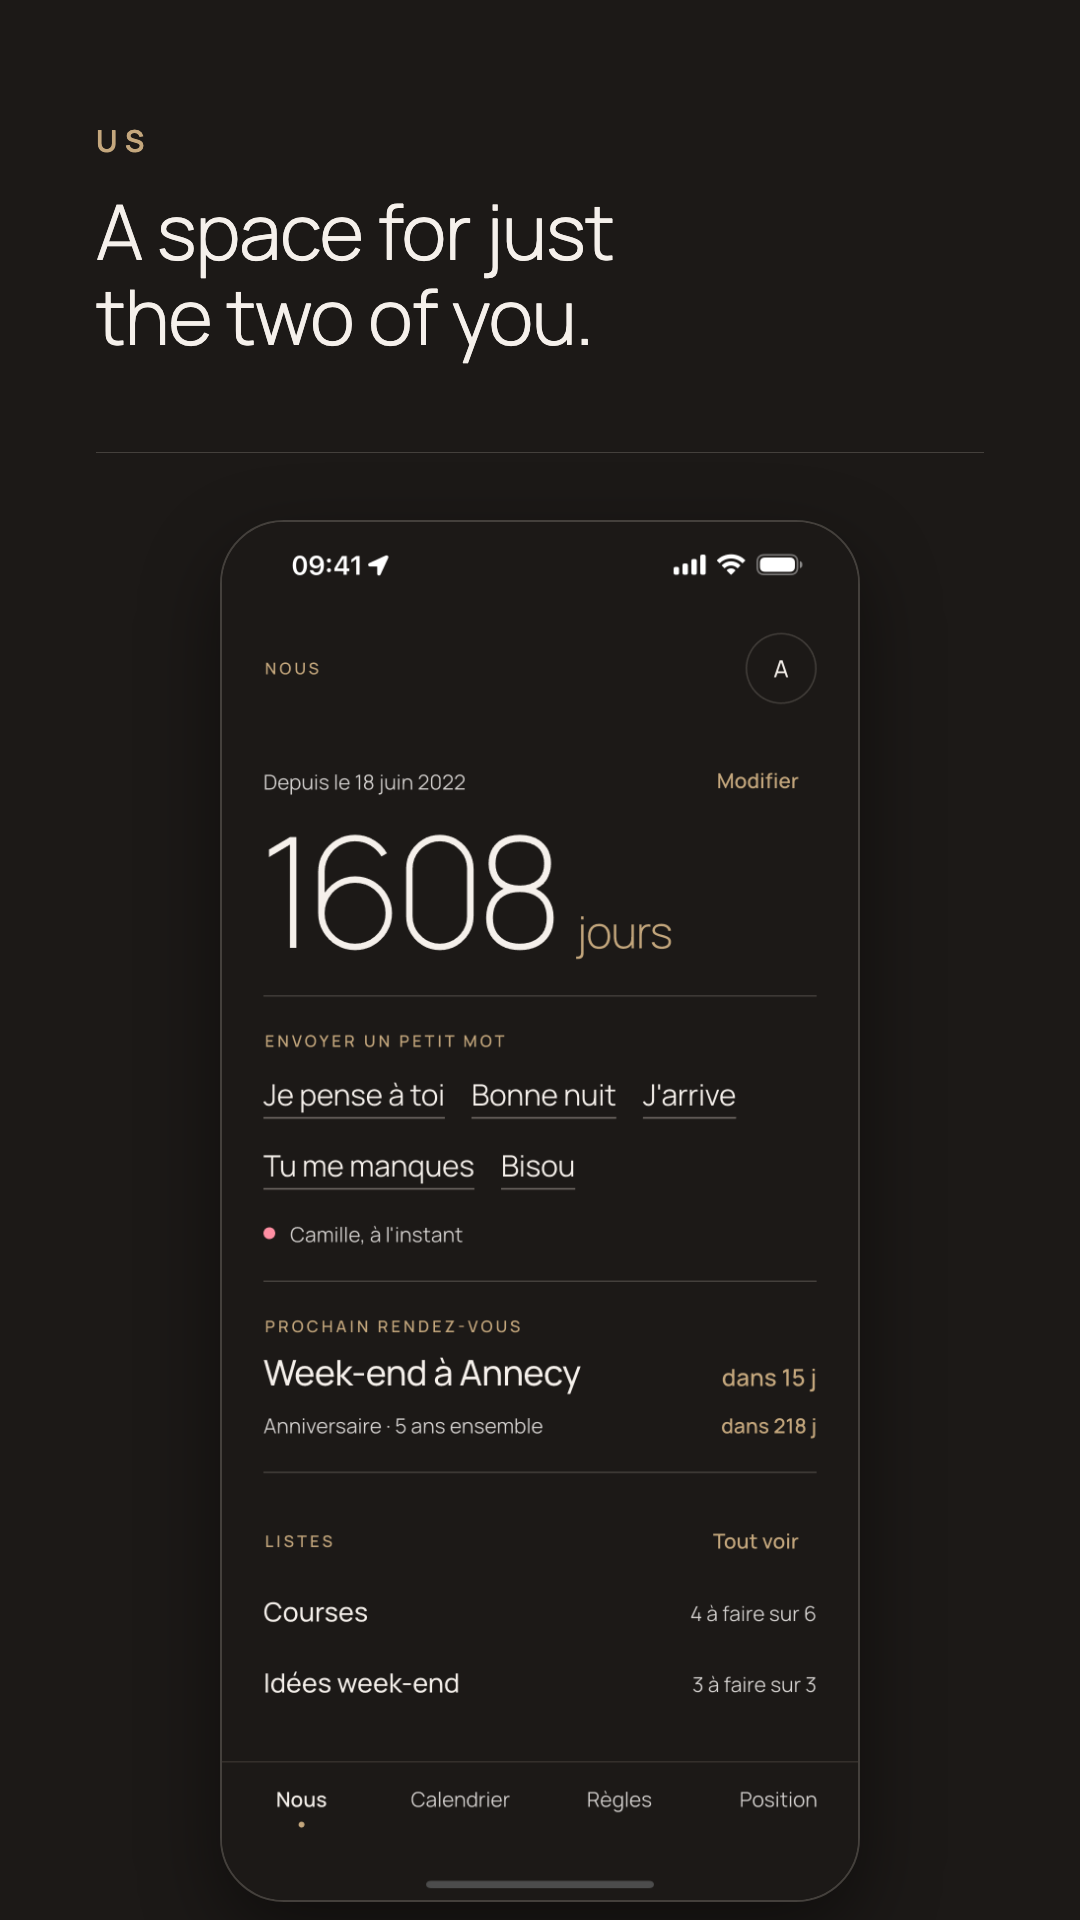
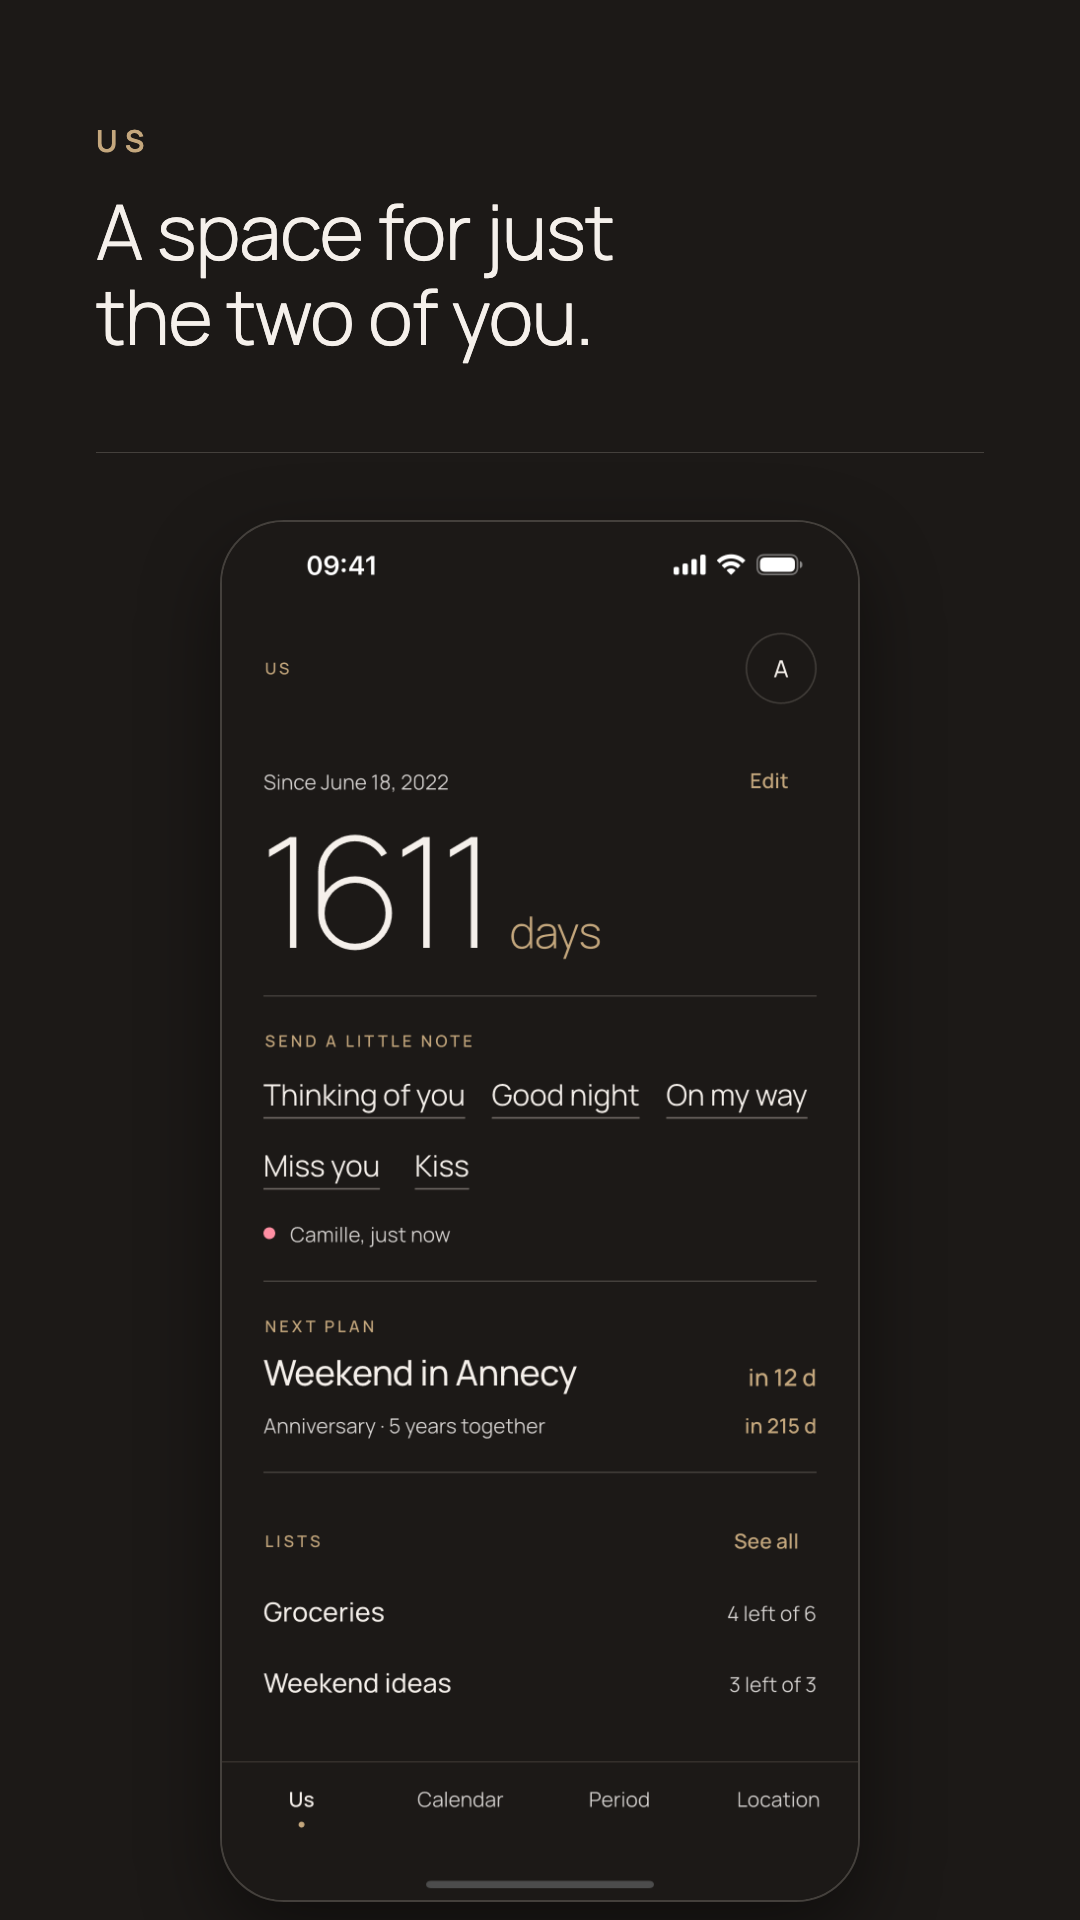
docs, store: written notes declared as messages; Play texts and English screenshots
- App Store App Privacy: little notes moved to « E-mails ou SMS »
  (Emails or Text Messages), published 2026-11-17; Play's Data safety
  already had them as Messages › Other in-app messages.
- Play listing, French and English: the description mentions your own
  words and the month swipe (same text as the App Store), sent for
  review with the screenshots below.
- app/store/play/render.py: the English screenshots now use the English
  captures (they showed the French app), and the little-notes caption
  says "or your own words".

diff --git a/app/store/play/render.py b/app/store/play/render.py
@@ -2,7 +2,8 @@
 """Renders the Google Play graphics from src/*.html with headless Chrome.
 
 Usage: python3 app/store/play/render.py  (outputs in app/store/play/out/)
-The screens reuse the site's app captures in website/public/screenshots/.
+The screens reuse the site's app captures in website/public/screenshots/
+(English ones in its en/ folder).
 """
 import pathlib, subprocess, urllib.parse
 
@@ -16,15 +17,15 @@ SCREENS = {
         ("01-nous", "nous", "Nous", "Votre espace à deux, et rien d'autre."),
         ("02-calendrier", "calendar", "Calendrier", "Un agenda pour deux, chacun sa couleur."),
         ("03-cycle", "cycle", "Règles", "Le cycle, partagé comme vous le choisissez."),
-        ("04-petits-mots", "ping", "Petits mots", f"«{NBSP}Je{NBSP}pense{NBSP}à{NBSP}toi{NBSP}», d'un geste."),
+        ("04-petits-mots", "ping", "Petits mots", f"«{NBSP}Je{NBSP}pense{NBSP}à{NBSP}toi{NBSP}», ou vos propres mots."),
         ("05-listes", "lists", "Listes", "Les courses, cochées des deux côtés."),
     ],
     "en": [
-        ("01-us", "nous", "Us", "A space for just the two of you."),
-        ("02-calendar", "calendar", "Calendar", "One calendar for two, a colour each."),
-        ("03-cycle", "cycle", "Period", "The cycle, shared the way you choose."),
-        ("04-notes", "ping", "Little notes", f"“Thinking{NBSP}of{NBSP}you”, in one tap."),
-        ("05-lists", "lists", "Lists", "Groceries, ticked off on both phones."),
+        ("01-us", "en/nous", "Us", "A space for just the two of you."),
+        ("02-calendar", "en/calendar", "Calendar", "One calendar for two, a colour each."),
+        ("03-cycle", "en/cycle", "Period", "The cycle, shared the way you choose."),
+        ("04-notes", "en/ping", "Little notes", f"“Thinking{NBSP}of{NBSP}you”, or your own words."),
+        ("05-lists", "en/lists", "Lists", "Groceries, ticked off on both phones."),
     ],
 }
 FEATURE = {

diff --git a/docs/PLAY_CONSOLE.md b/docs/PLAY_CONSOLE.md
@@ -95,10 +95,10 @@ Nothing is processed only temporarily (ephemeral) either; everything below is st
 | Personal info › Email address | Required | Account management | From Google or Apple sign-in |
 | Personal info › User IDs | Required | App functionality, Account management | Account id |
 | Personal info › Other info | Required | App functionality | Gender, chosen at onboarding |
-| Health and fitness › Health info | Optional | App functionality | Period dates, daily symptoms and mood, private cycle notes |
+| Health and fitness › Health info | Optional | App functionality | Period dates, daily symptoms (preset or written by the person) and mood, private cycle notes |
 | Location › Precise location | Optional | App functionality | Latest position only, no history; erased when sharing stops |
 | Photos and videos › Photos | Optional | App functionality | Profile photo |
-| Messages › Other in-app messages | Optional | App functionality | Little notes (latest one per person) |
+| Messages › Other in-app messages | Optional | App functionality | Little notes, latest one per person: a preset or, since build 26, a text the person writes (40 characters at most). The push never carries the text. |
 | Calendar › Calendar events | Optional | App functionality | Shared calendar events, including ones imported from the phone |
 | App activity › Other user-generated content | Optional | App functionality | Shared lists and items, the date the relationship started |
 | Device or other IDs | Optional | App functionality | Push notification token |
@@ -122,15 +122,15 @@ Nothing is processed only temporarily (ephemeral) either; everything below is st
 
 > Nous Deux réunit vos deux vies sur le même écran, et rien d'autre.
 >
-> Calendrier : un agenda pour deux, chaque événement garde la couleur de la personne qui l'a ajouté. Importez vos événements depuis le calendrier du téléphone et suivez le compte à rebours jusqu'au prochain rendez-vous.
+> Calendrier : un agenda pour deux, chaque événement garde la couleur de la personne qui l'a ajouté. Importez vos événements depuis le calendrier du téléphone, changez de mois d'un glissement et suivez le compte à rebours jusqu'au prochain rendez-vous.
 >
-> Cycle : la personne qui suit son cycle choisit ce que son partenaire voit. Dates, ressenti du jour et un guide pour chacun des deux, écrit à partir de sources de santé publique. Les notes restent privées.
+> Cycle : la personne qui suit son cycle choisit ce que son partenaire voit. Dates, ressenti du jour, avec vos propres mots si vous voulez, et un guide pour chacun des deux, écrit à partir de sources de santé publique. Les notes restent privées.
 >
 > Position : en direct, seulement quand vous l'activez. Aucun historique.
 >
 > Listes : courses, choses à faire, idées, cochées des deux côtés en direct.
 >
-> Petits mots : « Je pense à toi », « Bonne nuit », « J'arrive », envoyés d'un geste.
+> Petits mots : « Je pense à toi », « Bonne nuit », « J'arrive », ou vos propres mots, envoyés d'un geste.
 >
 > Vos jours : le compte de vos jours ensemble.
 >
@@ -140,21 +140,21 @@ Nothing is processed only temporarily (ephemeral) either; everything below is st
 
 > Nous Deux puts your two lives on one screen, and nothing else.
 >
-> Calendar: one calendar for two, where each event keeps the colour of whoever added it. Import events from your phone's calendar and count down to your next date.
+> Calendar: one calendar for two, where each event keeps the colour of whoever added it. Import events from your phone's calendar, swipe between months and count down to your next date.
 >
-> Cycle: whoever tracks their cycle chooses what their partner sees. Dates, how you feel each day, and a guide for each of you, written from public health sources. Notes stay private.
+> Cycle: whoever tracks their cycle chooses what their partner sees. Dates, how you feel each day, in your own words if you like, and a guide for each of you, written from public health sources. Notes stay private.
 >
 > Location: live, only when you turn it on. No history.
 >
 > Lists: groceries, to-dos, ideas, ticked off on both phones at once.
 >
-> Little notes: "Thinking of you", "Good night", "On my way", sent with one tap.
+> Little notes: "Thinking of you", "Good night", "On my way", or your own words, sent with one tap.
 >
 > Your days: how many days you've been together.
 >
 > No feed, no ads, no strangers. The app is free. Your data lives on our own servers in Germany and is never sold. You can delete your account from the app.
 
-The quoted note labels are the app's own, in both languages.
+The quoted note labels are the app's own, in both languages. The App Store description is the same text (see [APP_STORE_CONNECT.md](APP_STORE_CONNECT.md)).
 
 ### Graphics
 Everything is in `app/store/play/out/`, rendered by `python3 app/store/play/render.py` (headless Chrome) from the HTML in `app/store/play/src/` and the app captures in `website/public/screenshots/`.
@@ -163,7 +163,7 @@ Everything is in `app/store/play/out/`, rendered by `python3 app/store/play/rend
 | --- | --- | --- |
 | App icon, 512×512 | `icon-512.png` | inherited from French |
 | Feature graphic, 1024×500 | `fr/feature.png` | `en/feature.png` |
-| Phone screenshots, 1080×1920, in this order | `fr/01-nous` … `fr/05-listes` | `en/01-us` … `en/05-lists` |
+| Phone screenshots, 1080×1920, in this order | `fr/01-nous` … `fr/05-listes` | `en/01-us` … `en/05-lists` (English captures since 2026-11-17; before, they showed the French app) |
 
 - **Order:** uploading several screenshots at once lands them in a random order. Upload them one at a time, or reorder them in the asset panel.
 - **AI content declaration:** "Don't label". The graphics are app captures laid out in HTML and CSS, with no generated images.

diff --git a/docs/APP_STORE_CONNECT.md b/docs/APP_STORE_CONNECT.md
@@ -181,13 +181,14 @@ Same facts as Play's Data safety table, in Apple's terms. Apple counts crash and
 | Health & Fitness › Health | Yes | No | App Functionality | Period dates, daily symptoms and mood, private cycle notes; only with cycle tracking on |
 | Location › Precise Location | Yes | No | App Functionality | Latest position only, while sharing is on |
 | User Content › Photos or Videos | Yes | No | App Functionality | Profile photo |
-| User Content › Other User Content | Yes | No | App Functionality | Calendar events (imported ones too), shared lists, little notes (latest per person, preset or written), the relationship's start date |
+| User Content › Emails or Text Messages | Yes | No | App Functionality | Little notes: a preset or a text the person writes (40 characters at most), only the latest per person; never in the push |
+| User Content › Other User Content | Yes | No | App Functionality | Calendar events (imported ones too), shared lists, the relationship's start date |
 | Other Data › Other Data Types | Yes | No | App Functionality | Gender, chosen at onboarding |
 | Identifiers › User ID | Yes | No | App Functionality | Account id |
 | Identifiers › Device ID | Yes | No | App Functionality | Push notification token |
 | Diagnostics › Crash Data | No | No | App Functionality | Crash and error reports to our GlitchTip, kept 30 days, no account, IP or location |
 | Diagnostics › Other Diagnostic Data | No | No | App Functionality | Sent with each report: phone model, system version, memory, storage, battery, network, language, time zone |
 
-**Open question (2026-11-17):** since build 26 a little note can be a text the person writes (40 characters at most, only the latest kept). That makes it a short message between the two partners, which Apple's « E-mails ou SMS » (contents of a message) and Play's "Messages › Other in-app messages" may describe better than Other User Content. The published answers still say Other User Content; changing them is Thomas's call.
+Since build 26 (2026-11-17) a little note can be a text the person writes, so notes are declared as **Emails or Text Messages** (« E-mails ou SMS », the contents of a message), as Play's "Messages › Other in-app messages" already does. Before, as preset phrases, they were under Other User Content.
 
-**Not collected:** phone number (phone sign-in is off), physical address, other contact info, financial info, contacts, emails or text messages (little notes are counted under Other User Content; see below), audio, gameplay, customer support, browsing or search history, purchases, usage data (no analytics), advertising data, performance data, sensitive info, coarse location.
+**Not collected:** phone number (phone sign-in is off), physical address, other contact info, financial info, contacts, audio, gameplay, customer support, browsing or search history, purchases, usage data (no analytics), advertising data, performance data, sensitive info, coarse location.
